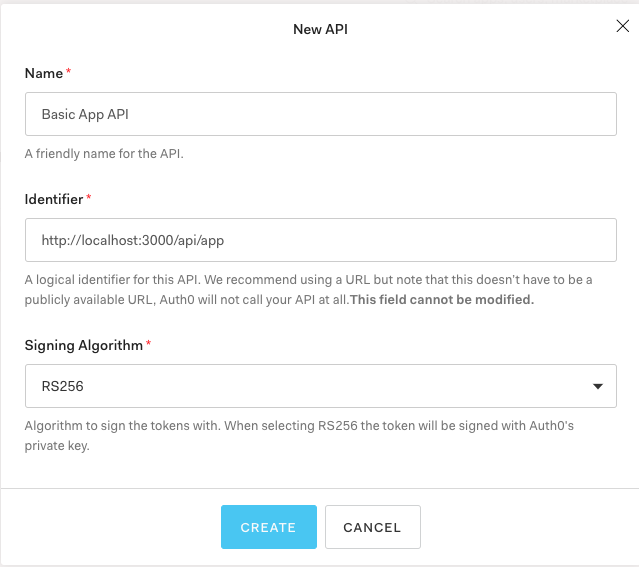
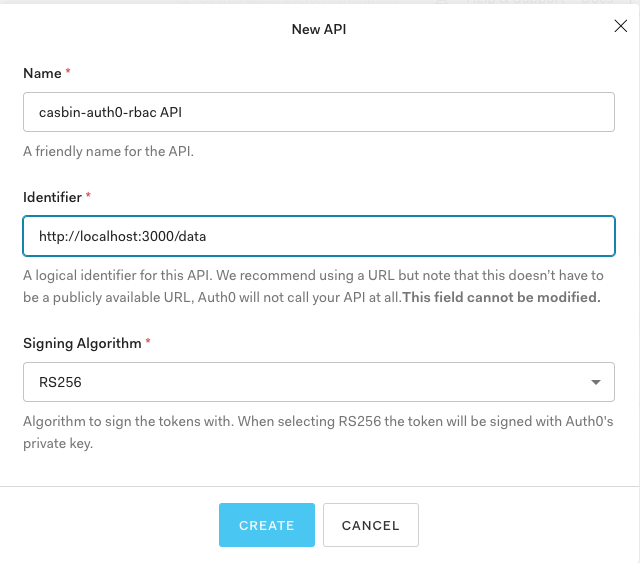
updated setup instructions

diff --git a/README.md b/README.md
@@ -2,29 +2,61 @@
 Example RBAC implementation with Casbin and Auth0
 
 <p  align="center">
-    <img src="./images/auth0-rbac.png" alt="Auth0 RBAC"/>
+    <img src="./images/casbin-auth0-rbac.png"  width="50%" height="50%" alt="Casbin Auth0 RBAC"/>
 </p>
 
 
-Config setup
+## Setup
 1. create auth0 account
 2. create app
-3. set Allowed Callback URLs and Allowed Logout URLs and Allowed Web Origins to http://localhost:3000
+<p  align="center">
+    <img src="./images/create-app.png" alt="Auth0 Create App" width="50%" height="50%"/>
+</p>
 
-Initial setup
+3. update app settings to set Allowed Callback URLs and Allowed Logout URLs and Allowed Web Origins to http://localhost:3000
+<p  align="center">
+    <img src="./images/app-settings.png" alt="Auth0 Application Settings" width="50%" height="50%"/>
+</p>
+
+4. update app settings to enable RBAC
+<p  align="center">
+    <img src="./images/rbac-settings.png" alt="Auth0 Application Settings" width="50%" height="50%"/>
+</p>
+
+5. create an API (the API identifier is the value used for REACT_APP_AUDIENCE environment variable below)
+<p  align="center">
+    <img src="./images/new-api.png" alt="Auth0 API" width="50%" height="50%"/>
+</p>
+
+6. create two users, alice@example.com and bob@example.com
+<p  align="center">
+    <img src="./images/create-users.png" alt="Auth0 Create Users" width="50%" height="50%"/>
+</p>
+
+7. follow instructions in [casbin-auth0-rbac-backend](https://github.com/jimareed/casbin-auth0-rbac-backend) to setup and run the backend service.
+
+8. clone this repo and install the react app
 ```
 npm install
 ```
 
-Run
+9. set the following environment variables
 ```
-export REACT_APP_DOMAIN=-- insert here --
-export REACT_APP_CLIENTID=-- insert here -- 
-export REACT_APP_AUDIENCE=-- insert here -- 
+export REACT_APP_DOMAIN=-- insert here from casbin-auth0-rbac app settings --
+export REACT_APP_CLIENTID=-- insert here from casbin-auth0-rbac app settings -- 
+export REACT_APP_AUDIENCE=--  insert here from casbin-auth0-rbac API settings (API Identifier)-- 
+```
+
+## Run
+```
 npm start
 ```
 
-Follow the instructions to install and run the backend at: https://github.com/jimareed/auth0-rbac-backend
+Open [http://localhost:3000](http://localhost:3000) and login as alice@example.com.
 
-Open [http://localhost:3000](http://localhost:3000) to view it in the browser.
+Authorize casbin-auth0-rbac to use your tenant during first time login.
+<p  align="center">
+    <img src="./images/authorize-app.png" alt="Auth0 Application Settings" width="50%" height="50%"/>
+</p>
 
+Alice should have access to data1 and data2 (see initial screenshot).
